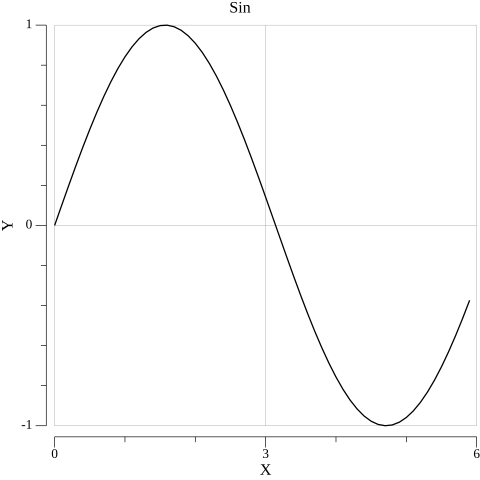
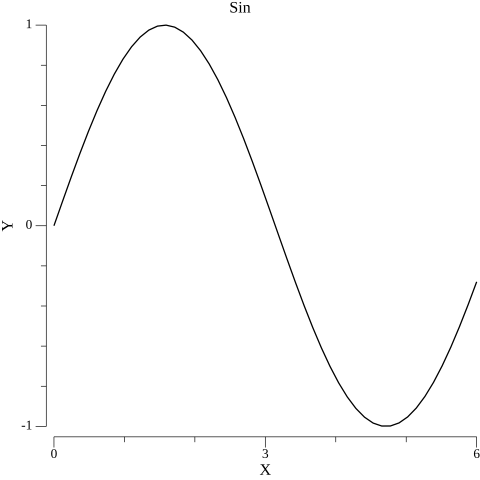
update: 1.6.1

diff --git a/ch1/main.go b/ch1/main.go
@@ -3,7 +3,6 @@ package main
 import (
 	"math"
 
-	"gonum.org/v1/gonum/mat"
 	"gonum.org/v1/plot"
 	"gonum.org/v1/plot/plotter"
 	"gonum.org/v1/plot/vg"
@@ -57,7 +56,7 @@ func main() {
 	// C := mat.NewDense(2, 2, []float64{0, 1, 2, 0})
 	// C.Add(A, B)
 
-	A := mat.NewDense(1, 3, []float64{1, 2, 3})
+	// A := mat.NewDense(1, 3, []float64{1, 2, 3})
 	// B := mat.NewDense(1, 3, []float64{2, 4, 6})
 	// C := mat.NewDense(1, 3, []float64{0, 0, 0})
 	// C.Add(A, B)
@@ -115,29 +114,33 @@ func main() {
 	p.Y.Min = -1
 	p.Y.Max = 1
 
-	p.Add(plotter.NewGrid())
-
-	x := []float64{}
-	y := []float64{}
-	for i := 0; i < 6/0.1; i++ {
-		x = append(x, float64(i)*0.1)
-		y = append(y, math.Sin(float64(i)*0.1))
-	}
-
-	pts := make(plotter.XYs, len(x))
-	for i := range pts {
-		pts[i].X = x[i]
-		pts[i].Y = y[i]
-	}
-
-	l, err := plotter.NewLine(pts)
-
-	if err != nil {
-		panic(err)
-	}
-	p.Add(l)
+	p.Add(plotter.NewFunction(math.Sin))
+	// p.Add(plotter.NewFunction(math.Cos))
 
 	p.Save(vg.Inch*5, vg.Inch*5, "sin.png")
+
+	// x := []float64{}
+	// y := []float64{}
+	// for i := 0; i < 6/0.1; i++ {
+	// 	x = append(x, float64(i)*0.1)
+	// 	y = append(y, math.Sin(float64(i)*0.1))
+	// }
+
+	// pts := make(plotter.XYs, len(x))
+	// for i := range pts {
+	// 	pts[i].X = x[i]
+	// 	pts[i].Y = y[i]
+	// }
+
+	// l, err := plotter.NewLine(pts)
+
+	// if err != nil {
+	// 	panic(err)
+	// }
+	// p.Add(l)
+
+	// p.Save(vg.Inch*5, vg.Inch*5, "sin.png")
+
 }
 
 // func matPrint(X mat.Matrix) {
